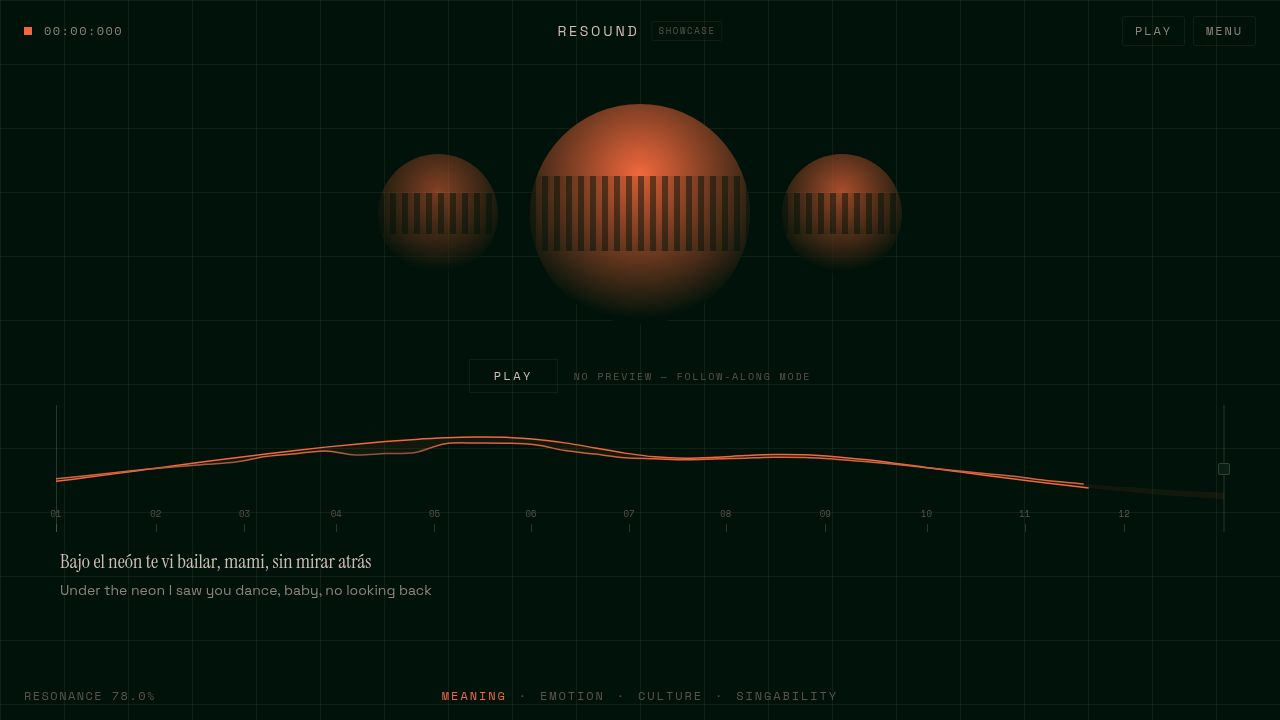
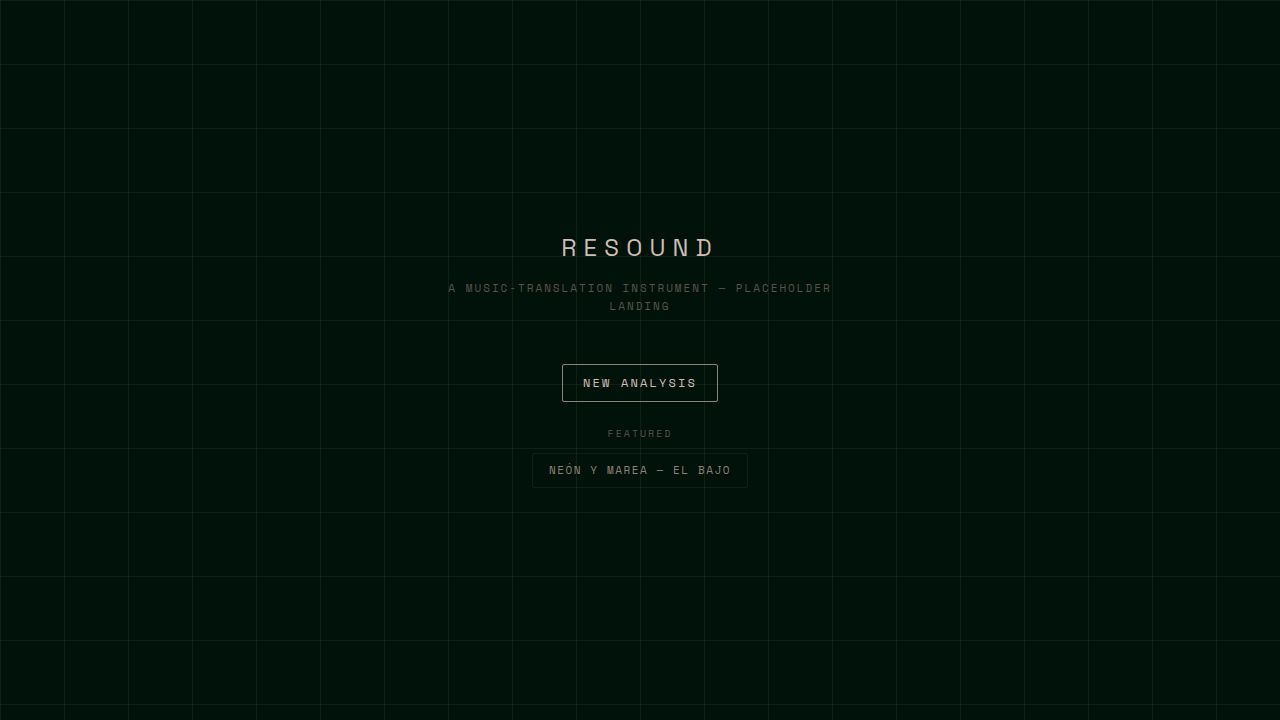
Add a navigable product front door with featured and user analysis options
Introduce routing for landing and instrument views, manage analysis source, and add persistent navigation controls to the HUD.

Replit-Commit-Author: Agent
Replit-Commit-Session-Id: 6611d2e0-c86d-485c-b5ae-63e8b16925e8
Replit-Commit-Checkpoint-Type: full_checkpoint
Replit-Commit-Event-Id: 43c2a1f9-9d1f-43ee-bb6c-719c2dc0c497
Replit-Commit-Screenshot-Url: https://storage.googleapis.com/screenshot-production-us-central1/a7425014-57c1-4070-9372-ed664c374ab1/6611d2e0-c86d-485c-b5ae-63e8b16925e8/2xyti9m
Replit-Helium-Checkpoint-Created: true

diff --git a/artifacts/resound/src/context/useResound.tsx b/artifacts/resound/src/context/useResound.tsx
@@ -8,10 +8,17 @@ import {
 } from "react";
 import type { Emotion, Song } from "@/types";
 import showcaseSong from "@/fixtures/showcase";
+import { FEATURED } from "@/fixtures/featured";
 
 export type Metric = "meaning" | "emotion" | "culture" | "singability";
 
 export type View = "cast" | "fidelity" | "rebirth" | "world";
+
+/** Top-level route: the front door vs. the instrument. */
+export type Route = "landing" | "instrument";
+
+/** Where the active analysis came from. */
+export type Source = "featured" | "user";
 
 /** CSS-variable reference for each emotion accent (source of truth: tokens.css). */
 export const ACCENT_VAR: Record<Emotion, string> = {
@@ -43,13 +50,28 @@ interface ResoundContextValue {
   /** Resonance readout, 0..1 (defaults to 0). Shown bottom-left in the HUD. */
   resonance: number;
   setResonance: (value: number) => void;
-  /** The song currently rendered by every view (defaults to the showcase). */
+  /** The song currently rendered by every view (defaults to a featured one). */
   song: Song;
-  /** True once a live analysis result has been loaded (vs. the showcase fixture). */
+  /** Where the active analysis came from: a featured example or a user run. */
+  source: Source;
+  /** True when the active analysis is a user (live) run. Derived from source. */
   isLive: boolean;
-  /** Load a freshly-analyzed song; marks the session LIVE and resets playback. */
+  /** The top-level route. The app boots to "landing". */
+  route: Route;
+  setRoute: (route: Route) => void;
+  /** Whether the ANALYZE panel overlay is open inside the instrument. */
+  analyzeOpen: boolean;
+  openAnalyze: () => void;
+  closeAnalyze: () => void;
+  /** Entry action: route into the instrument and open the ANALYZE panel. */
+  startAnalysis: () => void;
+  /** Entry action: load a featured analysis and route into the instrument. */
+  openFeatured: (id: string) => void;
+  /** Route back to the front door. */
+  goHome: () => void;
+  /** Load a freshly-analyzed song; marks the session as a USER run. */
   loadSong: (song: Song) => void;
-  /** Return to the built-in showcase song. */
+  /** Return to the built-in showcase song (a featured example). */
   resetToShowcase: () => void;
 }
 
@@ -63,20 +85,49 @@ export function ResoundProvider({ children }: { children: ReactNode }) {
   const [view, setView] = useState<View>("cast");
   const [resonance, setResonance] = useState(0);
   const [song, setSong] = useState<Song>(showcaseSong);
-  const [isLive, setIsLive] = useState(false);
+  const [source, setSource] = useState<Source>("featured");
+  const [route, setRoute] = useState<Route>("landing");
+  const [analyzeOpen, setAnalyzeOpen] = useState(false);
+
+  const isLive = source === "user";
 
   const togglePlaying = useCallback(() => setIsPlaying((p) => !p), []);
 
   const loadSong = useCallback((next: Song) => {
     setIsPlaying(false);
     setSong(next);
-    setIsLive(true);
+    setSource("user");
   }, []);
 
   const resetToShowcase = useCallback(() => {
     setIsPlaying(false);
     setSong(showcaseSong);
-    setIsLive(false);
+    setSource("featured");
+  }, []);
+
+  const openAnalyze = useCallback(() => setAnalyzeOpen(true), []);
+  const closeAnalyze = useCallback(() => setAnalyzeOpen(false), []);
+
+  const startAnalysis = useCallback(() => {
+    setRoute("instrument");
+    setAnalyzeOpen(true);
+  }, []);
+
+  const openFeatured = useCallback((id: string) => {
+    const entry = FEATURED.find((f) => f.id === id) ?? FEATURED[0];
+    if (!entry) return;
+    setIsPlaying(false);
+    setSong(entry.song);
+    setSource("featured");
+    setView("cast");
+    setAnalyzeOpen(false);
+    setRoute("instrument");
+  }, []);
+
+  const goHome = useCallback(() => {
+    setIsPlaying(false);
+    setAnalyzeOpen(false);
+    setRoute("landing");
   }, []);
 
   const value = useMemo<ResoundContextValue>(
@@ -96,7 +147,16 @@ export function ResoundProvider({ children }: { children: ReactNode }) {
       resonance,
       setResonance,
       song,
+      source,
       isLive,
+      route,
+      setRoute,
+      analyzeOpen,
+      openAnalyze,
+      closeAnalyze,
+      startAnalysis,
+      openFeatured,
+      goHome,
       loadSong,
       resetToShowcase,
     }),
@@ -109,7 +169,15 @@ export function ResoundProvider({ children }: { children: ReactNode }) {
       view,
       resonance,
       song,
+      source,
       isLive,
+      route,
+      analyzeOpen,
+      openAnalyze,
+      closeAnalyze,
+      startAnalysis,
+      openFeatured,
+      goHome,
       loadSong,
       resetToShowcase,
     ],

diff --git a/artifacts/resound/src/components/HudFrame.tsx b/artifacts/resound/src/components/HudFrame.tsx
@@ -10,6 +10,7 @@ import RebirthView from "@/components/RebirthView";
 import WorldView from "@/components/WorldView";
 import AnalyzePanel from "@/components/AnalyzePanel";
 import { clamp01 } from "@/lib/colors";
+import type { Song } from "@/types";
 
 interface HudFrameProps {
   children?: ReactNode;
@@ -136,6 +137,46 @@ function MenuOverlay({
   );
 }
 
+function AnalyzeOverlay({
+  onClose,
+  onAnalyzed,
+}: {
+  onClose: () => void;
+  onAnalyzed: (song: Song) => void;
+}) {
+  useEffect(() => {
+    const onKey = (e: KeyboardEvent) => {
+      if (e.key === "Escape") onClose();
+    };
+    window.addEventListener("keydown", onKey);
+    return () => window.removeEventListener("keydown", onKey);
+  }, [onClose]);
+
+  return (
+    <div
+      className="fixed inset-0 z-40 flex items-center justify-center"
+      style={GRID_STYLE}
+      role="dialog"
+      aria-modal="true"
+      aria-label="New analysis"
+    >
+      <button
+        type="button"
+        onClick={onClose}
+        aria-label="Close analyze panel"
+        className="absolute right-6 top-4 border border-line bg-transparent px-3 py-1.5 font-mono text-xs uppercase tracking-[0.16em] text-text-dim transition-colors duration-[280ms] hover:bg-surface-2 hover:text-text"
+        style={{ borderRadius: 2, transitionTimingFunction: "var(--ease)" }}
+      >
+        Close
+      </button>
+
+      <div className="flex max-h-full w-full flex-col items-center gap-10 overflow-y-auto px-6 py-20">
+        <AnalyzePanel onAnalyzed={onAnalyzed} />
+      </div>
+    </div>
+  );
+}
+
 export function HudFrame({ children, activeMetric }: HudFrameProps) {
   const {
     activeAccent,
@@ -149,6 +190,11 @@ export function HudFrame({ children, activeMetric }: HudFrameProps) {
     resonance,
     song,
     isLive,
+    source,
+    analyzeOpen,
+    openAnalyze,
+    closeAnalyze,
+    goHome,
   } = useResound();
 
   const [menuOpen, setMenuOpen] = useState(false);
@@ -211,25 +257,23 @@ export function HudFrame({ children, activeMetric }: HudFrameProps) {
           </span>
         </div>
 
-        {/* Top-center: wordmark + LIVE/SHOWCASE badge */}
+        {/* Top-center: wordmark + source label */}
         <div className="absolute left-1/2 flex -translate-x-1/2 items-center gap-3">
           <span className="text-sm uppercase tracking-[0.2em] text-text">
             RESOUND
           </span>
           <span
-            className="border px-1.5 py-0.5 font-mono text-[9px] uppercase tracking-[0.18em]"
-            style={{
-              borderRadius: 2,
-              borderColor: isLive ? activeAccent : "var(--line)",
-              color: isLive ? activeAccent : "var(--text-faint)",
-            }}
+            className="font-mono text-[10px] uppercase tracking-[0.18em]"
+            style={{ color: source === "user" ? activeAccent : "var(--text-faint)" }}
           >
-            {isLive ? "LIVE" : "SHOWCASE"}
+            {source === "user" ? "YOUR ANALYSIS · LIVE" : "FEATURED EXAMPLE"}
           </span>
         </div>
 
-        {/* Top-right: PLAY/PAUSE + MENU */}
+        {/* Top-right: persistent nav + PLAY/PAUSE + MENU */}
         <div className="flex items-center gap-2">
+          <HudButton label="New Analysis" onClick={openAnalyze} />
+          <HudButton label="Home" onClick={goHome} />
           <HudButton
             label={isPlaying ? "Pause" : "Play"}
             onClick={togglePlaying}
@@ -306,6 +350,16 @@ export function HudFrame({ children, activeMetric }: HudFrameProps) {
             setMenuOpen(false);
           }}
           onClose={() => setMenuOpen(false)}
+        />
+      )}
+
+      {analyzeOpen && (
+        <AnalyzeOverlay
+          onClose={closeAnalyze}
+          onAnalyzed={() => {
+            setView("cast");
+            closeAnalyze();
+          }}
         />
       )}
     </div>

diff --git a/artifacts/resound/src/pages/Landing.tsx b/artifacts/resound/src/pages/Landing.tsx
@@ -1,0 +1,69 @@
+import { useResound } from "@/context/useResound";
+import { FEATURED } from "@/fixtures/featured";
+
+const GRID_STYLE = {
+  backgroundColor: "var(--void)",
+  backgroundImage:
+    "linear-gradient(var(--line) 1px, transparent 1px), linear-gradient(90deg, var(--line) 1px, transparent 1px)",
+  backgroundSize: "64px 64px",
+} as const;
+
+/**
+ * Placeholder front door. The full landing is built in a later pass — for now
+ * it surfaces the entry actions: start a new analysis, or open a featured
+ * example (which routes into the instrument labelled "FEATURED EXAMPLE").
+ */
+export function Landing() {
+  const { startAnalysis, openFeatured } = useResound();
+
+  return (
+    <div
+      className="relative flex min-h-screen w-full flex-col items-center justify-center gap-12 px-6 text-text"
+      style={GRID_STYLE}
+    >
+      <div className="flex flex-col items-center gap-4 text-center">
+        <span className="text-2xl uppercase tracking-[0.3em] text-text">
+          RESOUND
+        </span>
+        <span className="max-w-md font-mono text-[11px] uppercase leading-relaxed tracking-[0.18em] text-text-faint">
+          A music-translation instrument — placeholder landing
+        </span>
+      </div>
+
+      <div className="flex flex-col items-center gap-6">
+        <button
+          type="button"
+          onClick={startAnalysis}
+          className="border border-text-dim bg-transparent px-5 py-2.5 font-mono text-xs uppercase tracking-[0.18em] text-text transition-colors duration-[280ms] hover:bg-surface-2"
+          style={{ borderRadius: 2, transitionTimingFunction: "var(--ease)" }}
+        >
+          New Analysis
+        </button>
+
+        <div className="flex flex-col items-center gap-3">
+          <span className="font-mono text-[10px] uppercase tracking-[0.2em] text-text-faint">
+            Featured
+          </span>
+          <div className="flex flex-wrap items-center justify-center gap-3">
+            {FEATURED.map((entry) => (
+              <button
+                key={entry.id}
+                type="button"
+                onClick={() => openFeatured(entry.id)}
+                className="border border-line bg-transparent px-4 py-2 font-mono text-[11px] uppercase tracking-[0.14em] text-text-dim transition-colors duration-[280ms] hover:bg-surface-2 hover:text-text"
+                style={{
+                  borderRadius: 2,
+                  transitionTimingFunction: "var(--ease)",
+                }}
+              >
+                {entry.song.title} — {entry.song.artist}
+              </button>
+            ))}
+          </div>
+        </div>
+      </div>
+    </div>
+  );
+}
+
+export default Landing;

diff --git a/artifacts/resound/src/fixtures/featured.ts b/artifacts/resound/src/fixtures/featured.ts
@@ -1,0 +1,20 @@
+import type { Song } from "@/types";
+import showcaseSong from "@/fixtures/showcase";
+
+/** A pre-computed analysis surfaced on the front door as a featured example. */
+export interface FeaturedEntry {
+  /** Stable id used by `openFeatured(id)` (defaults to the song id). */
+  id: string;
+  song: Song;
+}
+
+/**
+ * The FEATURED collection — pre-computed analyses shown on the landing page.
+ * For now it holds the built-in showcase fixture (Neón y Marea); real
+ * pre-computed songs will be appended here later.
+ */
+export const FEATURED: FeaturedEntry[] = [
+  { id: showcaseSong.id, song: showcaseSong },
+];
+
+export default FEATURED;

diff --git a/artifacts/resound/src/App.tsx b/artifacts/resound/src/App.tsx
@@ -1,10 +1,16 @@
-import { ResoundProvider } from "@/context/useResound";
+import { ResoundProvider, useResound } from "@/context/useResound";
 import HudFrame from "@/components/HudFrame";
+import Landing from "@/pages/Landing";
+
+function Root() {
+  const { route } = useResound();
+  return route === "instrument" ? <HudFrame /> : <Landing />;
+}
 
 function App() {
   return (
     <ResoundProvider>
-      <HudFrame />
+      <Root />
     </ResoundProvider>
   );
 }